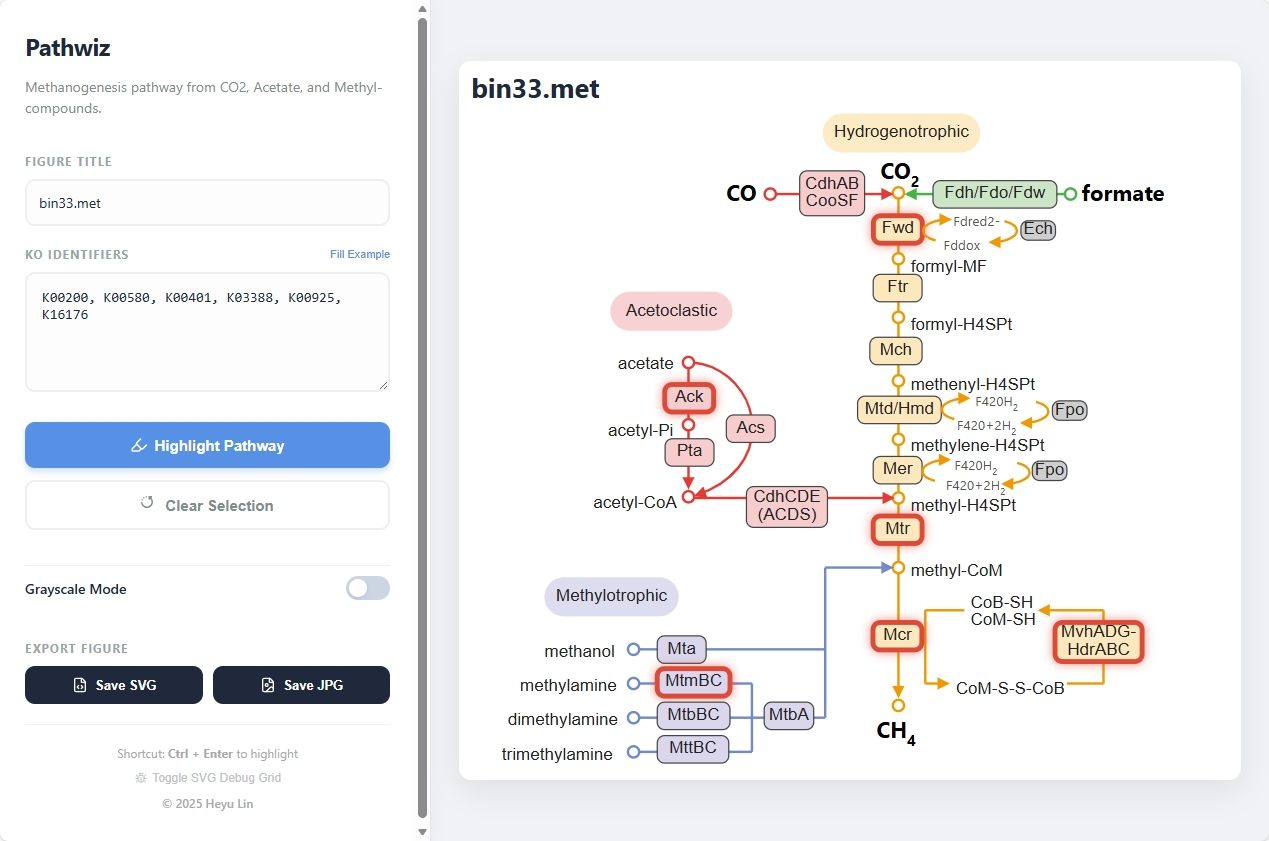
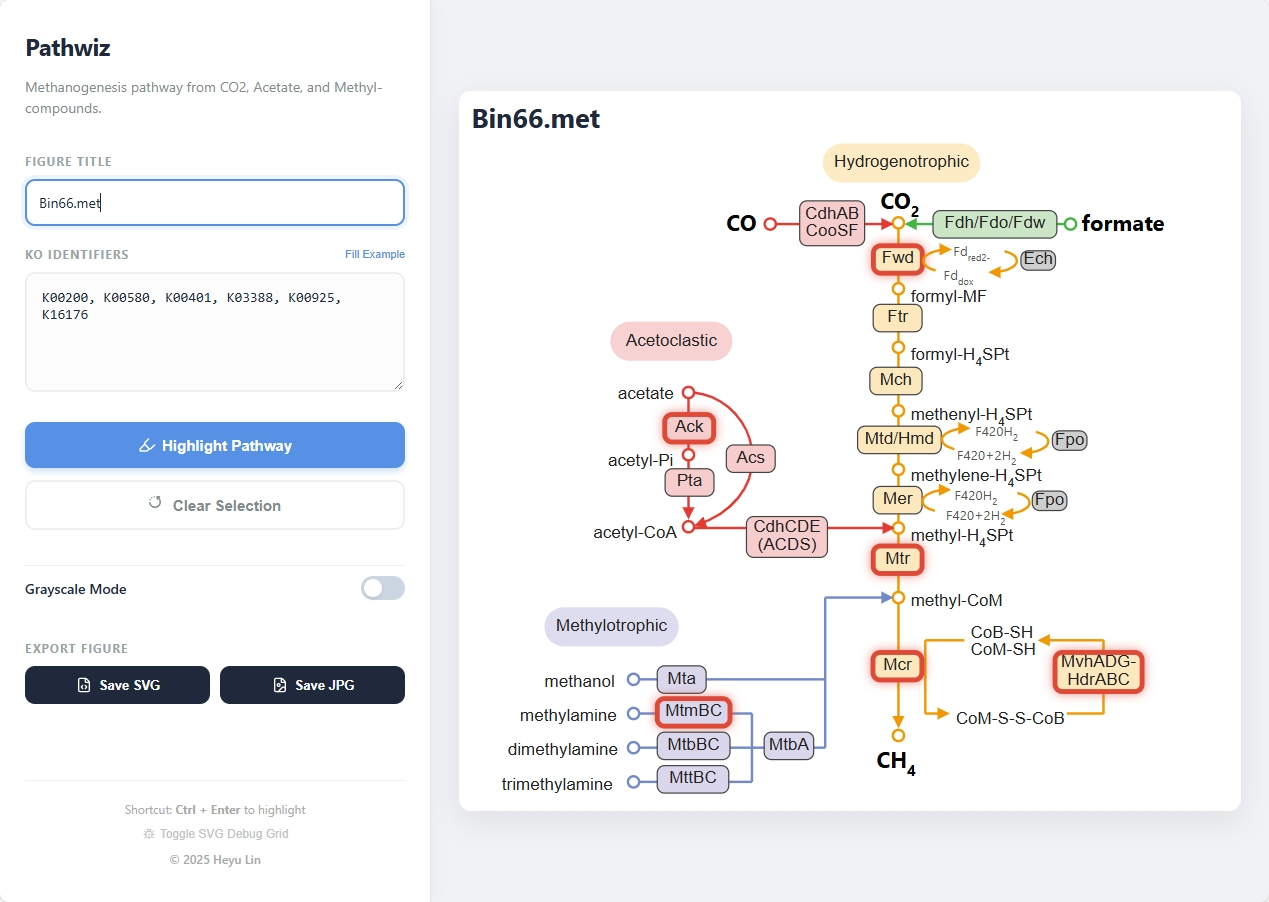
update fig

diff --git a/methanogenesis_viz.html b/methanogenesis_viz.html
@@ -568,16 +568,16 @@ drawText({x:345.36, y:92, text:"CO<sub>2</sub>", cls:"big-label"});
 drawText({x:219, y:110, text:"CO", cls:"big-label"});
 drawText({x:510, y:110, text:"formate", cls:"big-label"});
 drawText({x:370, y:169.21, text:"formyl-MF"});
-drawText({x:370, y:217, text:"formyl-H4SPt"});
-drawText({x:370, y:266, text:"methenyl-H4SPt"});
-drawText({x:370, y:316, text:"methylene-H4SPt"});
-drawText({x:370, y:365, text:"methyl-H4SPt"});
+drawText({x:370, y:217, text:"formyl-H<sub>4</sub>SPt"});
+drawText({x:370, y:266, text:"methenyl-H<sub>4</sub>SPt"});
+drawText({x:370, y:316, text:"methylene-H<sub>4</sub>SPt"});
+drawText({x:370, y:365, text:"methyl-H<sub>4</sub>SPt"});
 drawText({x:370, y:419, text:"methyl-CoM"});
 drawText({x:342.07, y:550, text:"CH<sub>4</sub>", cls:"big-label"});
 drawText({x:419, y:452, text:"CoB-SH\nCoM-SH"});
 drawText({x:407, y:515, text:"CoM-S-S-CoB"});
-drawText({x:405, y:133, text:"Fdred2-", cls:"small-label"});
-drawText({x:397, y:152, text:"Fddox", cls:"small-label"});
+drawText({x:405, y:133, text:"Fd<sub>red2-</sub>", cls:"small-label"});
+drawText({x:397, y:152, text:"Fd<sub>dox</sub>", cls:"small-label"});
 drawText({x:423, y:280, text:"F420H<sub>2</sub>", cls:"small-label"});
 drawText({x:408, y:300, text:"F420+2H<sub>2</sub>", cls:"small-label"});
 drawText({x:406, y:333, text:"F420H<sub>2</sub>", cls:"small-label"});
